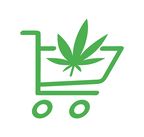
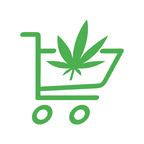
fix: resolve production runtime errors
- Removed experimental renderBuiltUrl config causing window.__assetPath error
- Fixed icon-144x144.png dimensions to be exactly 144x144 pixels
- This resolves both the runtime JavaScript error and manifest icon warning

🤖 Generated with [Claude Code](https://claude.ai/code)

diff --git a/vite.config.ts b/vite.config.ts
@@ -71,13 +71,4 @@ export default defineConfig({
     include: ['react', 'react-dom', 'react-router-dom', '@supabase/supabase-js'],
     exclude: ['@vite/client', '@vite/env'],
   },
-  // Enable experimental features for better performance
-  experimental: {
-    renderBuiltUrl(filename, { hostType }) {
-      if (hostType === 'js') {
-        return { runtime: `window.__assetPath(${JSON.stringify(filename)})` };
-      }
-      return { relative: true };
-    },
-  },
 });
